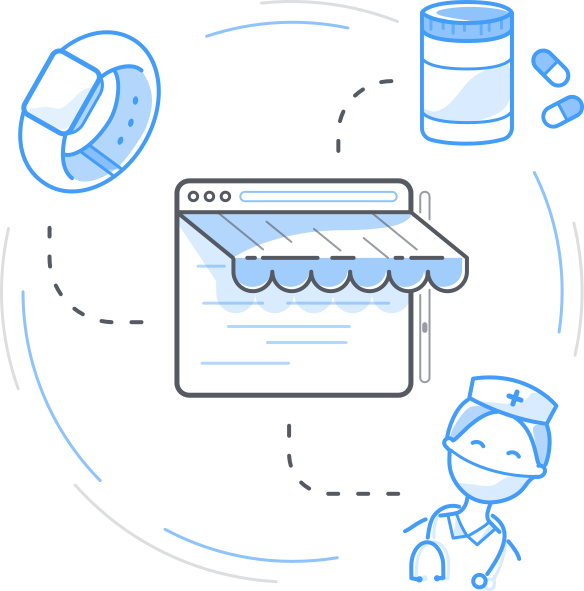
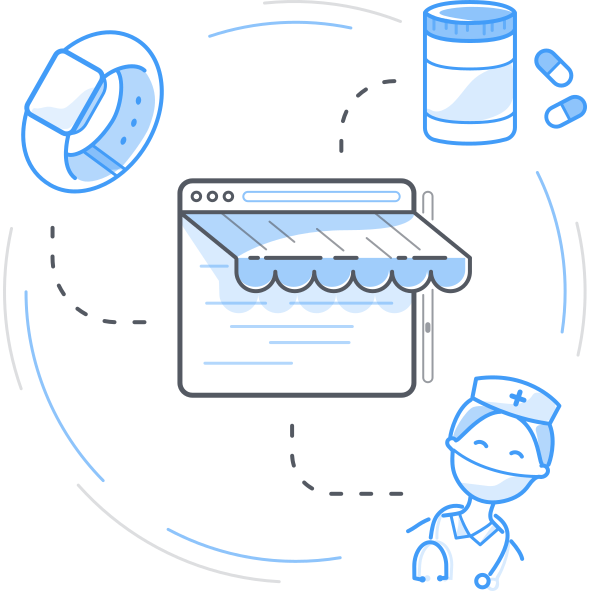
Added market screen placeholders

diff --git a/src/components/MarketView.js b/src/components/MarketView.js
@@ -1,0 +1,74 @@
+import React, {Component} from 'react';
+import { 
+	View, 
+	Text, 
+	StyleSheet ,
+	Image,
+	Dimensions
+} from 'react-native';
+import Images from '../resources/images';
+import {
+	theme,
+	primaryBlueColor
+} from '../components/themes';
+import { scale } from 'react-native-size-matters';
+
+class MarketView extends Component {
+	render() {
+		const {
+			tutorialTextStyle,
+			tutorialTileTextStyle,			
+		} = theme;
+
+		const {
+			pageContainerStyle,
+			imageStyle,
+			imageContainerStyle,
+			textContainerStyle
+		} = styles;
+
+		return (
+			<View style={pageContainerStyle}>
+				<View
+					style={imageContainerStyle}
+				>
+					<Image
+						style={imageStyle}
+						source= {Images.img_market}
+					/>
+				</View>
+				<View
+					style = {textContainerStyle}
+				>
+					<Text style={tutorialTileTextStyle}>
+						Coming Very Soon
+					</Text>
+					<Text style={[tutorialTextStyle, {margin: scale(20)}]}>
+						Spend your earned medits on wearables, health supplements, and medical services and many more exciting offerings.
+					</Text>
+				</View>
+			</View>
+		);
+	}
+}
+
+const styles = StyleSheet.create({
+  pageContainerStyle: {
+    flex: 1
+	}, 
+	imageStyle: {
+		width: Dimensions.get('window').width - 40,
+		height: Dimensions.get('window').width - 40,
+	},
+	imageContainerStyle: {
+		flex: 2,
+		alignItems: 'center',
+		justifyContent: 'center',
+	},
+	textContainerStyle: {
+		flex: 1,
+		justifyContent: 'flex-start',
+	}
+});
+
+export default MarketView;

diff --git a/src/resources/images.js b/src/resources/images.js
@@ -22,6 +22,8 @@ const Images = {
   img_purchase_disabled: require("./images/tabs/purchase_disabled.png"),
   img_settings_enabled: require("./images/tabs/settings_enabled.png"),
   img_settings_disabled: require("./images/tabs/settings_disabled.png"),
+  img_play_enabled: require("./images/tabs/play_enabled.png"),
+  img_play_disabled: require("./images/tabs/play_disabled.png"),
 
   img_tutorial_1: require("./images/tutorial/tutorial1.png"),
   img_tutorial_2: require("./images/tutorial/tutorial2.png"),
@@ -39,6 +41,8 @@ const Images = {
   img_medit_wallet_bg: require("./images/wallet/medit_card_wallet.png"),
   img_medex_wallet_bg: require("./images/wallet/medex_card_wallet.png"),
 
+  img_market: require("./images/placeholders/market.png"),
+  img_vote: require("./images/placeholders/vote.png"),
 };
 
 export default Images;
